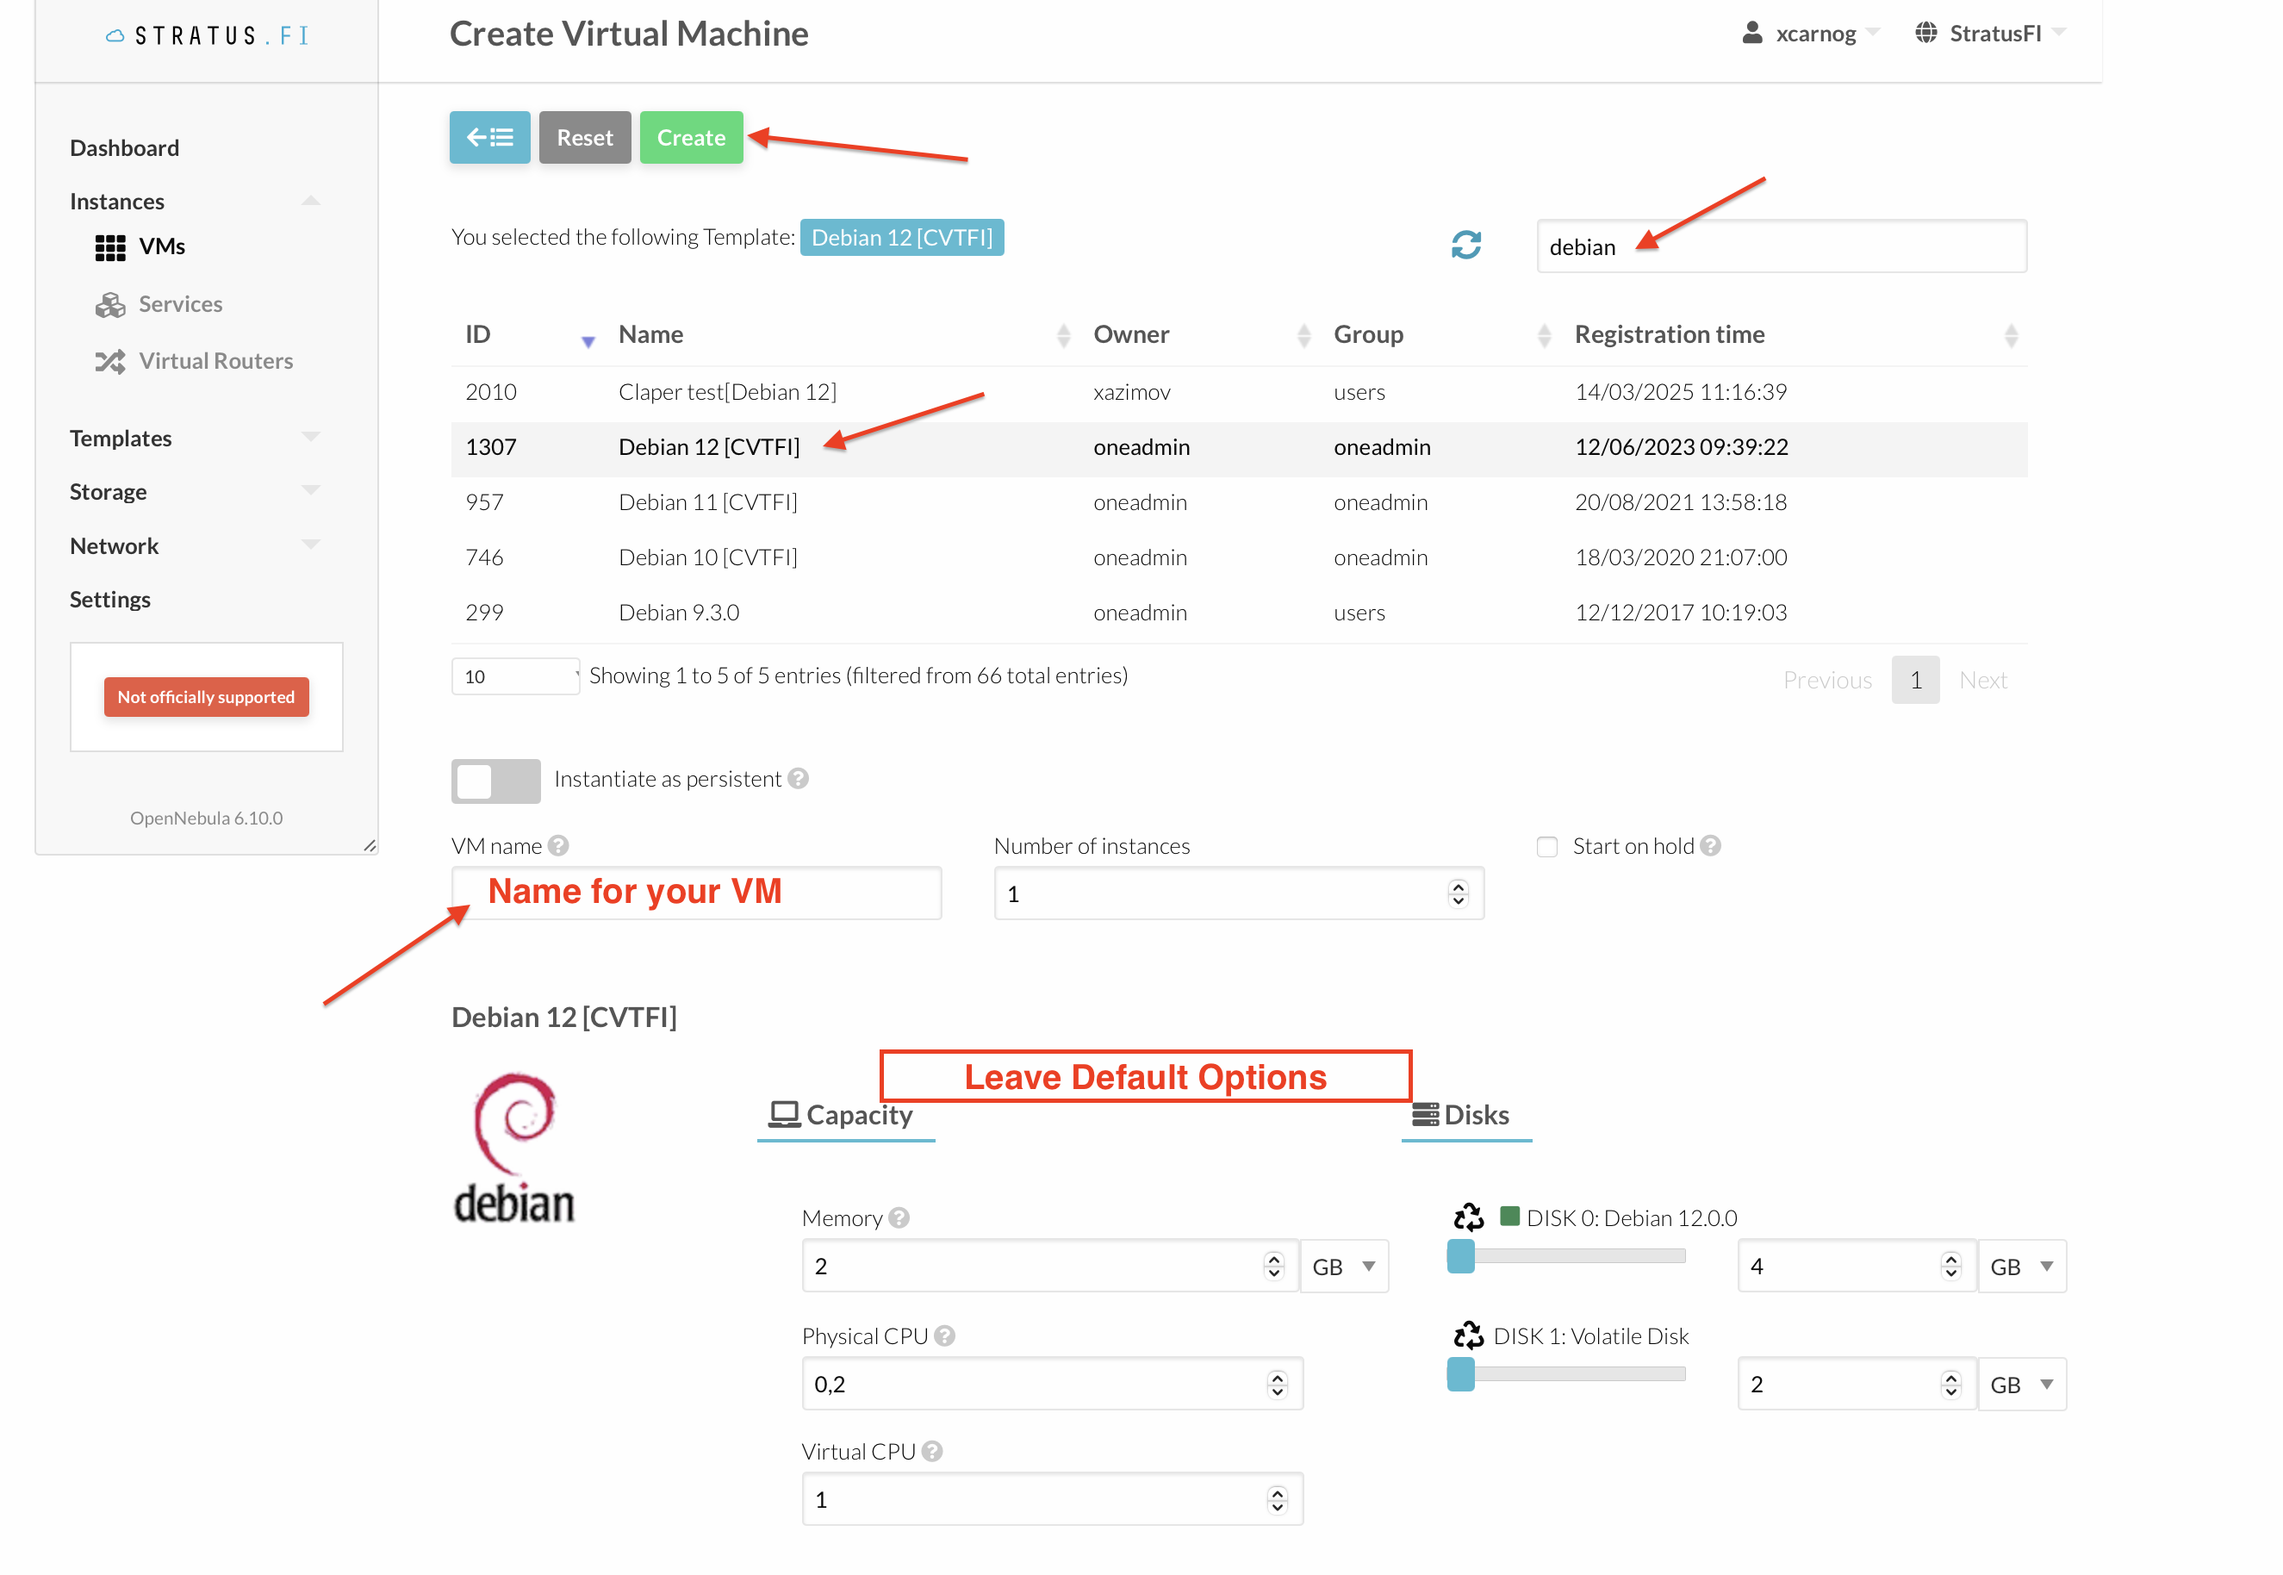
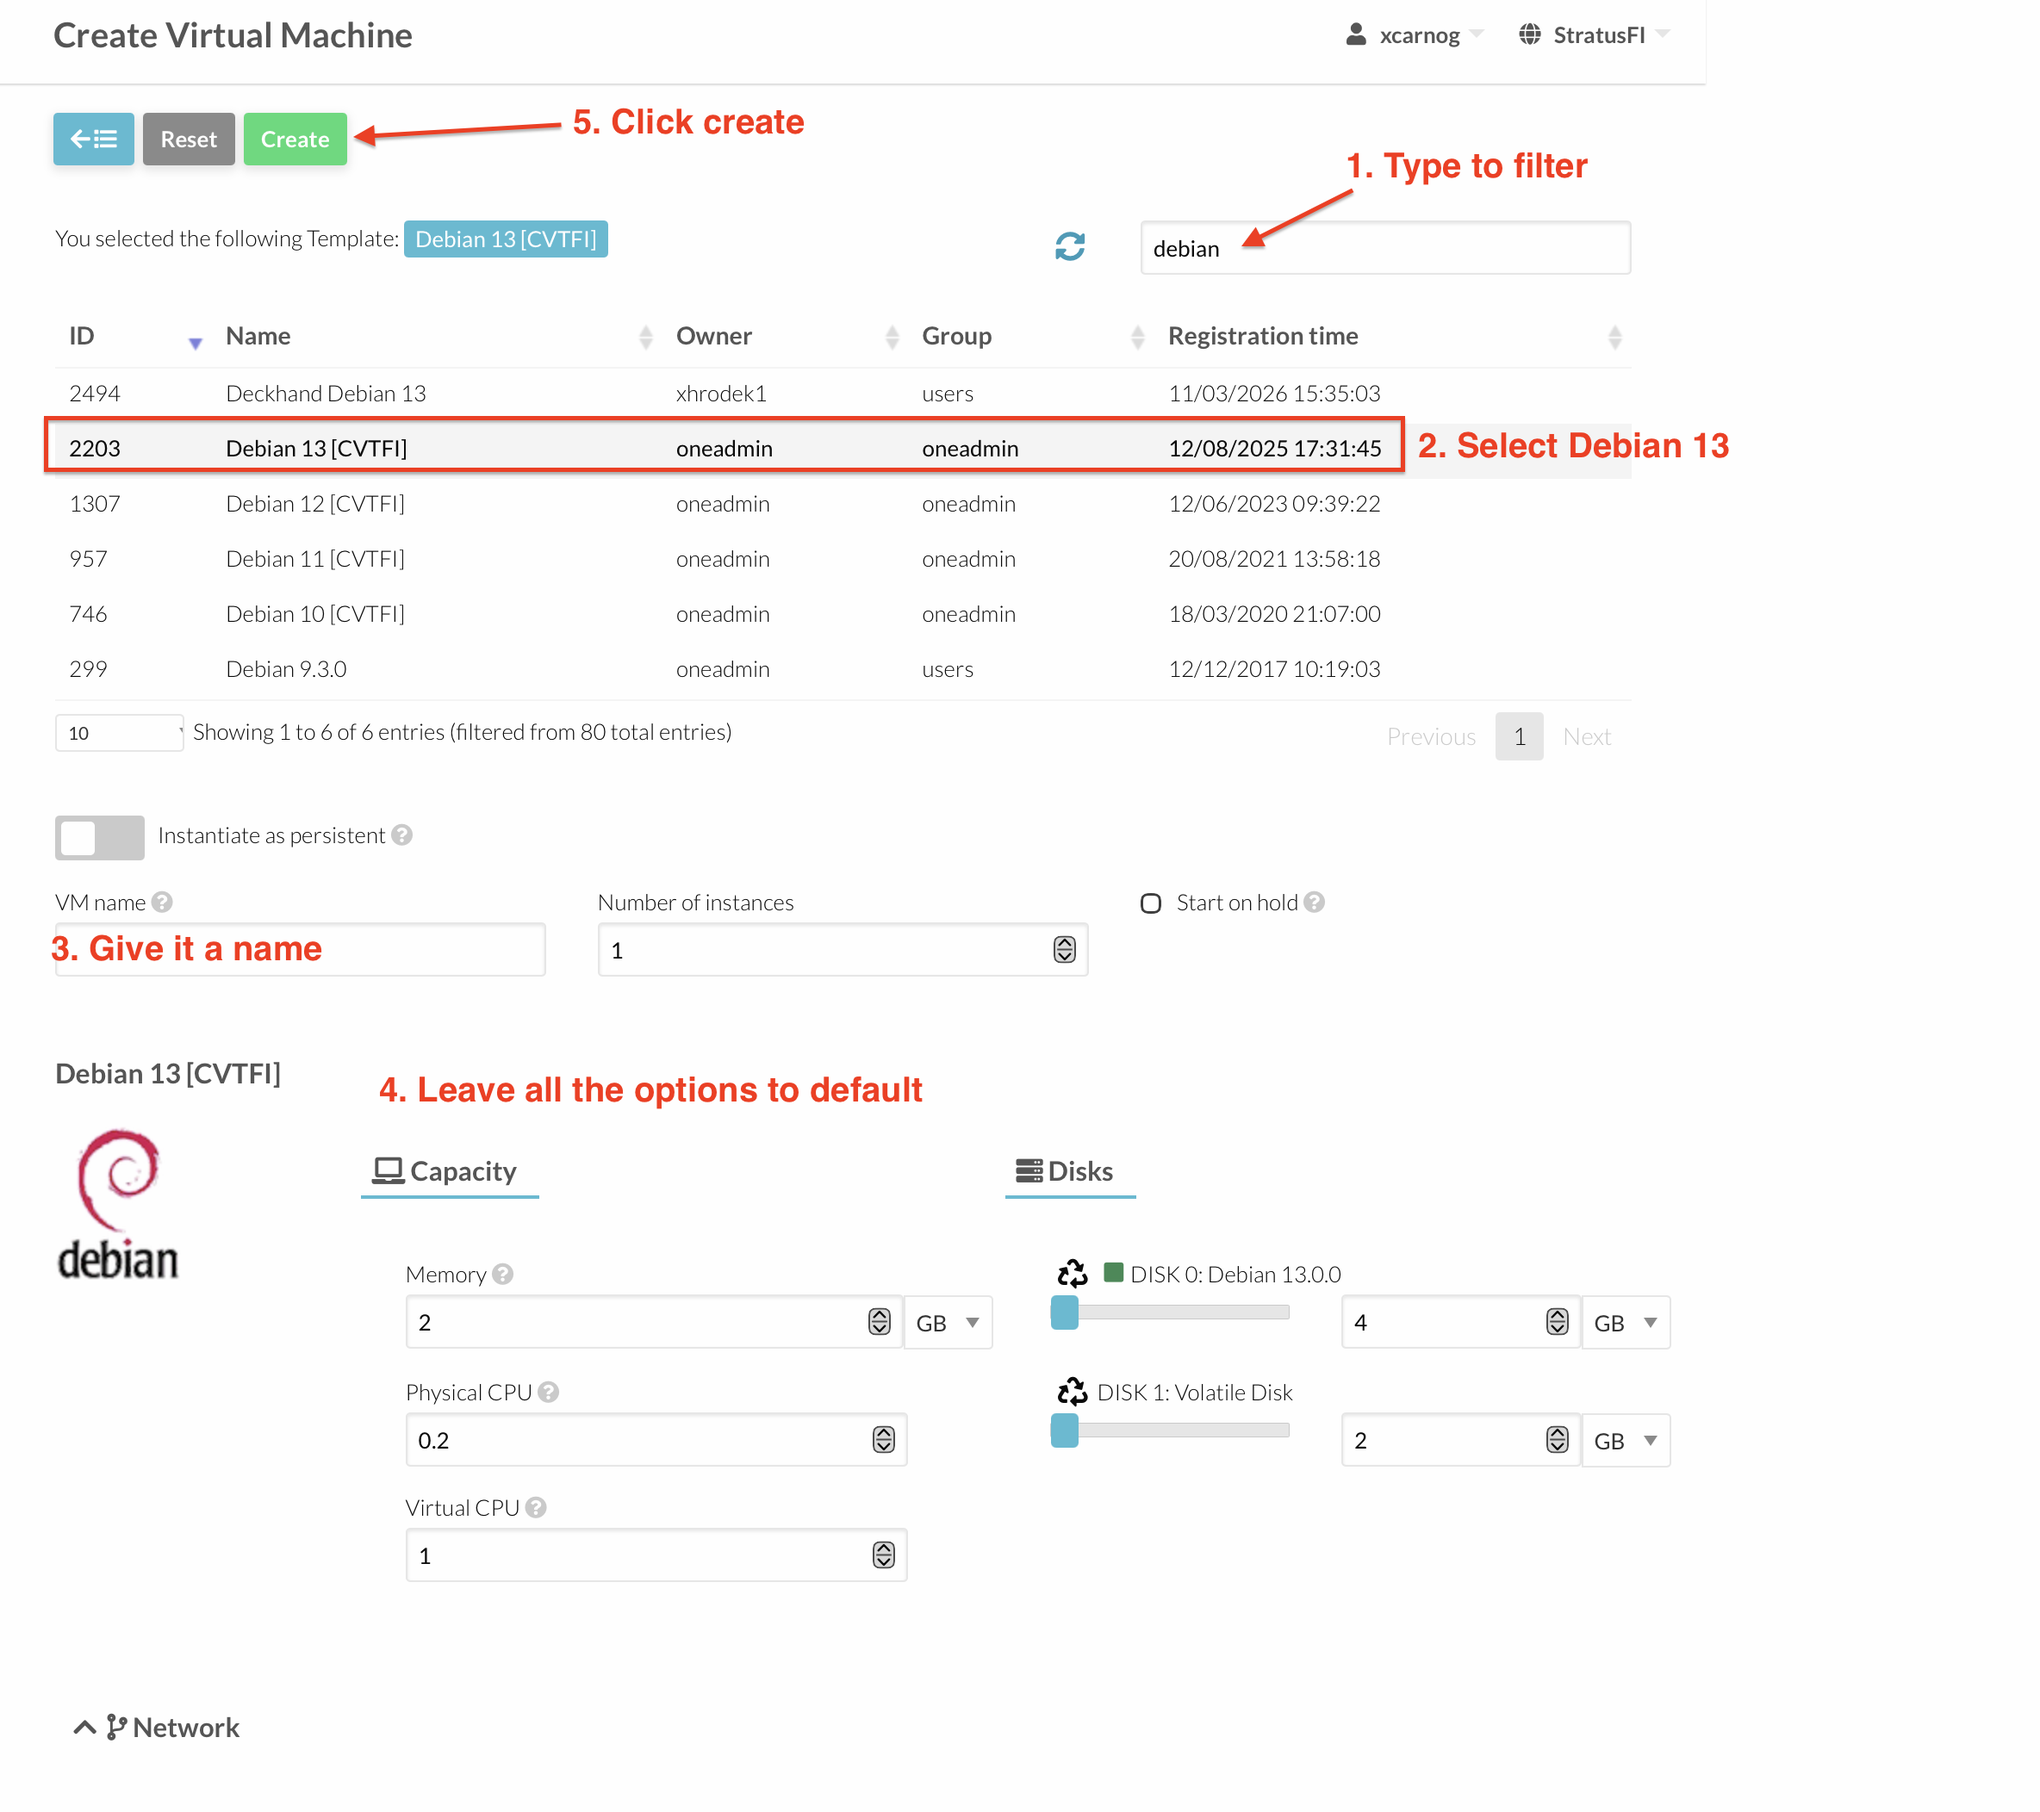
update vm creation screenshot

diff --git a/README.md b/README.md
@@ -29,3 +29,26 @@ When the VM boots up, login via ssh and run the following command:
 ```shell
 curl "https://raw.githubusercontent.com/SourceCode-AI/secure_coding/refs/heads/master/install_debian.sh"|bash
 ```
+
+FAQ
+===
+
+How do I generate the SSH key?
+---
+
+On Linux/Mac, run the following commands:
+```
+bash$ ssh-keygen -t ed25519
+Generating public/private ed25519 key pair.
+Enter file in which to save the key (/Users/user/.ssh/id_ed25519)
+
+```
+
+Public key would be saved under `/Users/user/.ssh/id_ed25519.pub`
+
+
+How do I convert multiline key to one liner?
+---
+
+
+`ssh-keygen -i -f /tmp/input_key` OR `puttygen -O public-openssh tmp/Public-Key`
